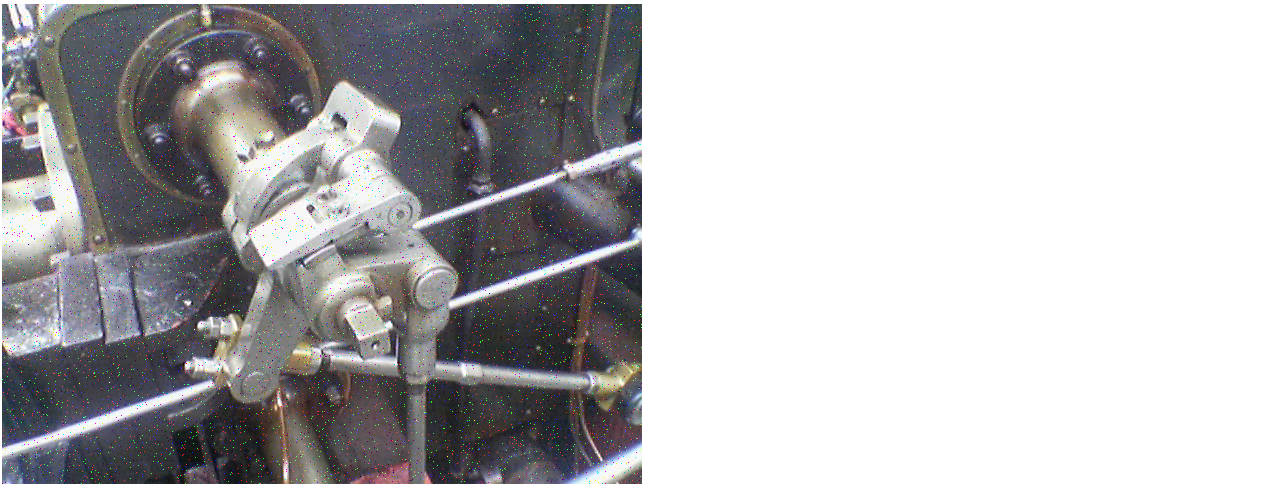
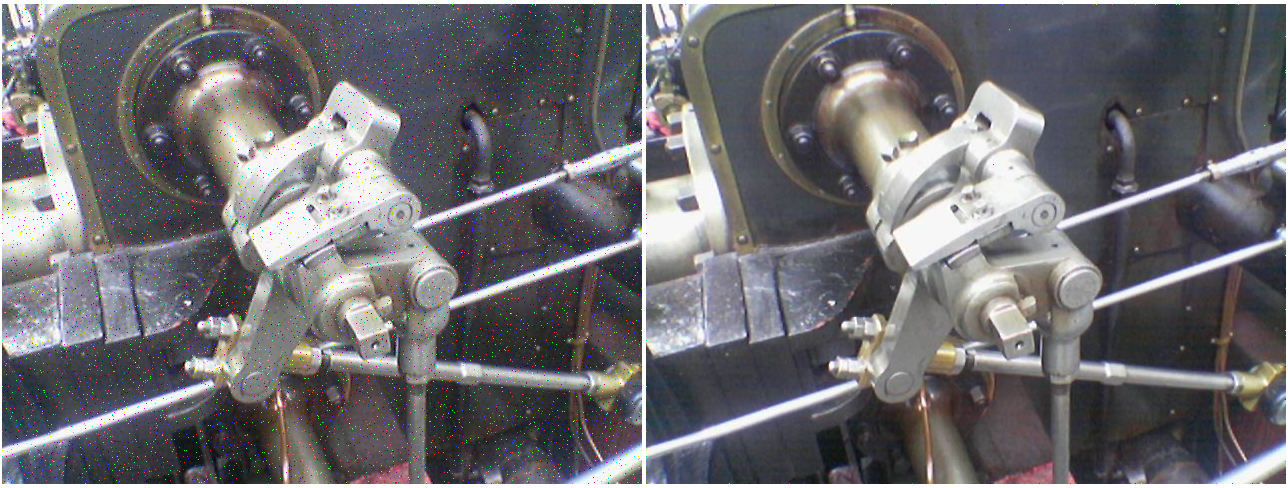
modifications

diff --git a/gen-dna.c b/gen-dna.c
@@ -2,7 +2,7 @@
  *
  * gen-dna.c - Generate input for omp-c-ray
  *
- * Copyright (C) 2022, 2023 Moreno Marzolla
+ * Copyright (C) 2022--2026 Moreno Marzolla
  *
  * This program is free software: you can redistribute it and/or modify
  * it under the terms of the GNU General Public License as published by
@@ -22,9 +22,9 @@
 /***
 % Generate input for omp-c-ray
 % [Moreno Marzolla](https://www.unibo.it/sitoweb/moreno.marzolla)
-% Last updated: 2023-11-03
+% Last updated: 2026-05-14
 
-Inspired by <https://twitter.com/pickover/status/1505350972641525765>
+Generate an input for [omp-c-ray](omp-c-ray.html).
 
 Compile with:
 